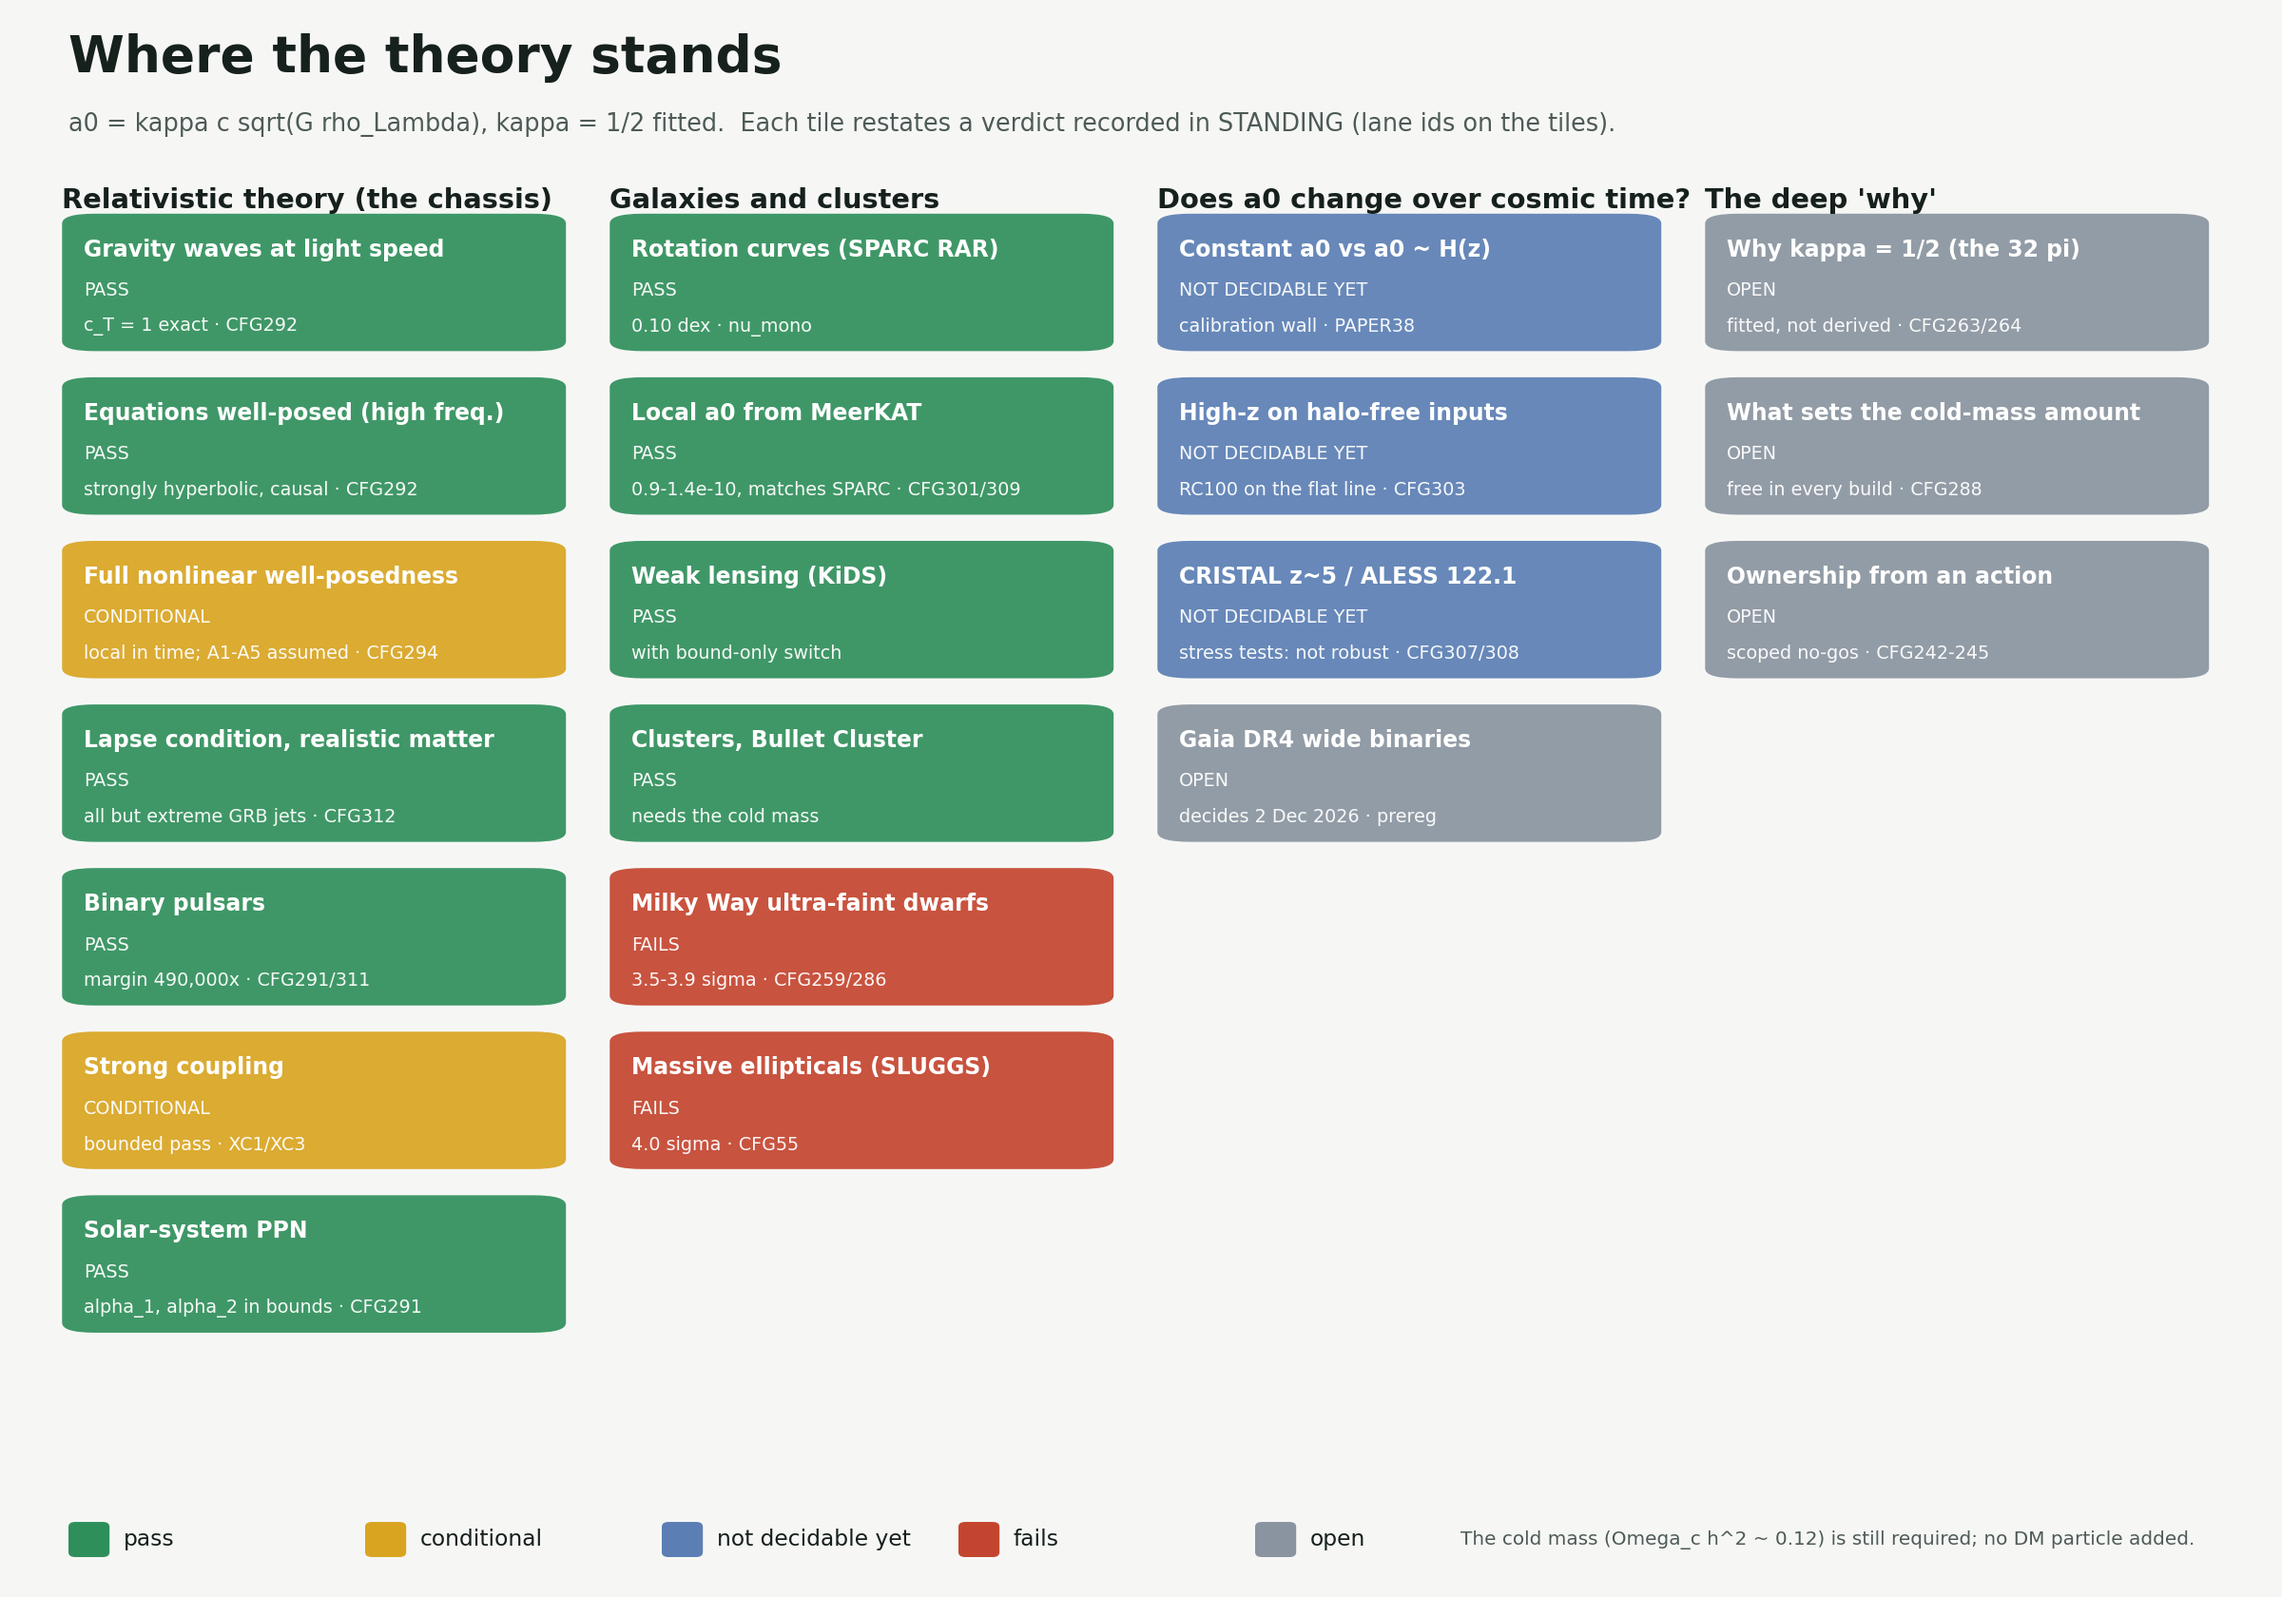
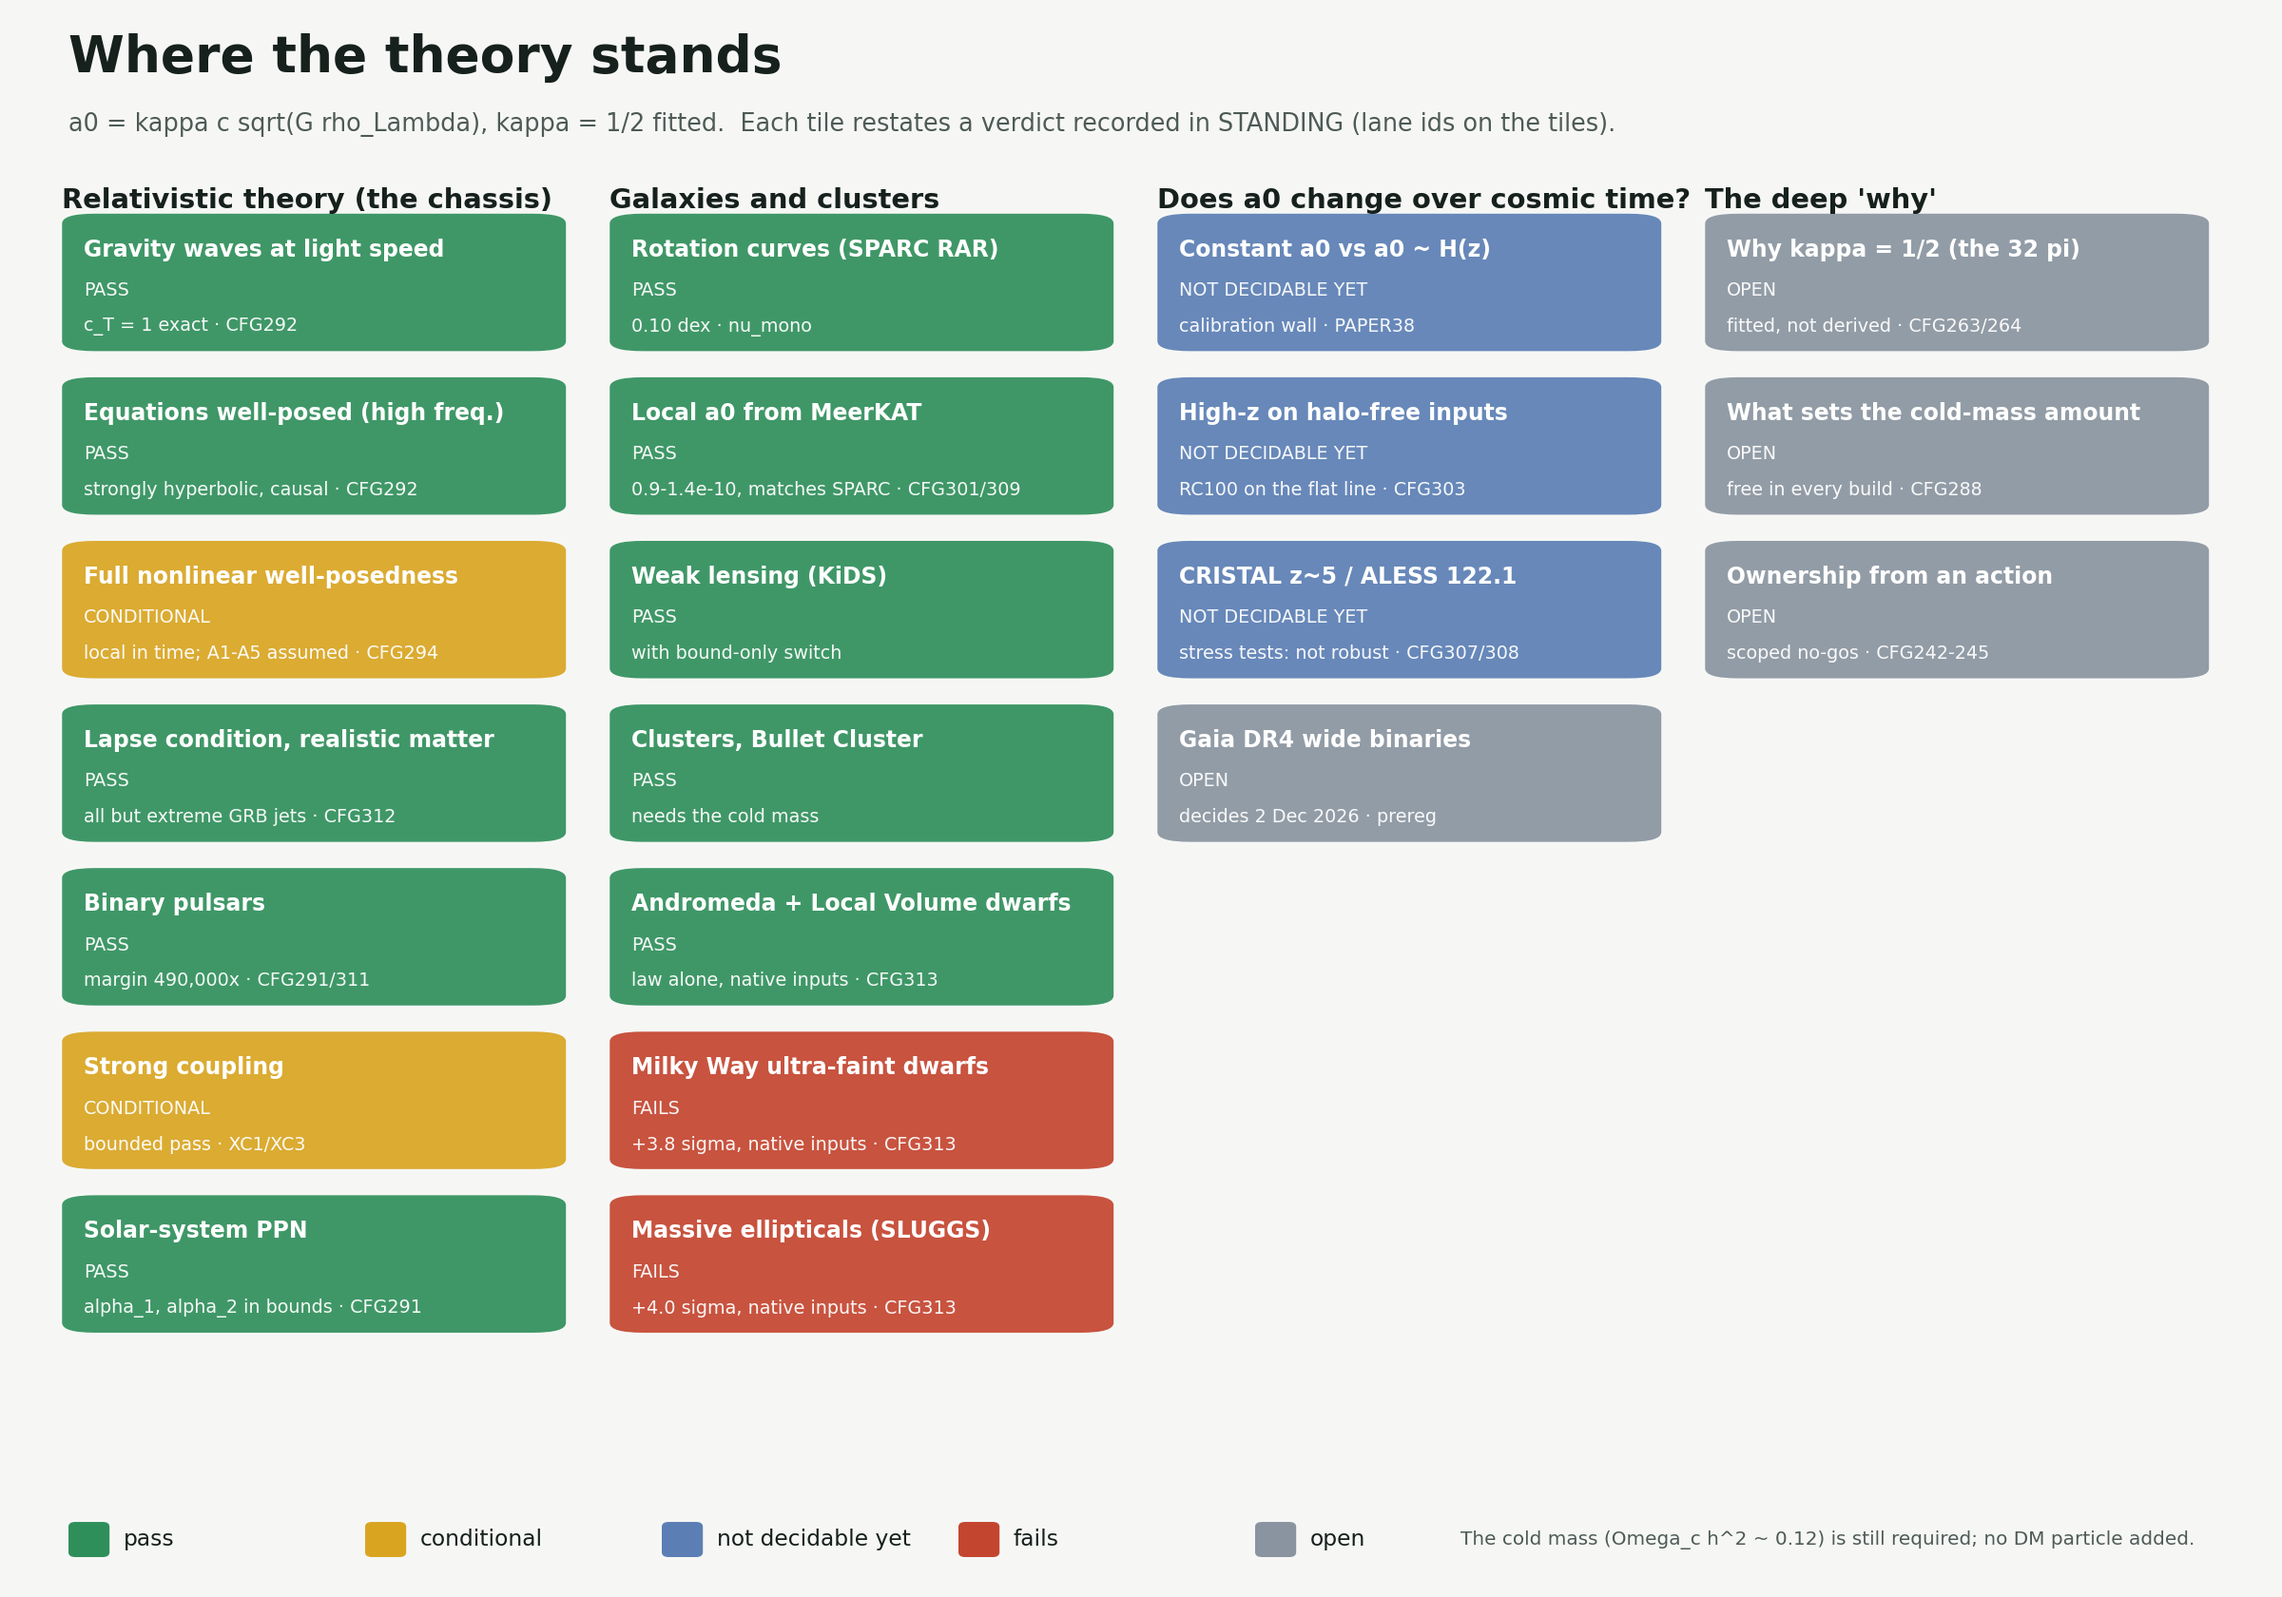
STATUS PICTURE: CFG313 (Andromeda + LV dwarfs pass on native inputs; UFDs and SLUGGS fail on native inputs)

Changed region(s): [[0.25, 0.5262, 0.5, 0.681], [0.25, 0.7119, 0.5, 0.8357]]

diff --git a/campaign_fresh_gravity/closure_map/status_picture_2026_10_03.py b/campaign_fresh_gravity/closure_map/status_picture_2026_10_03.py
@@ -26,8 +26,9 @@ groups = [
         ("Local a0 from MeerKAT", "PASS", "0.9-1.4e-10, matches SPARC · CFG301/309"),
         ("Weak lensing (KiDS)", "PASS", "with bound-only switch"),
         ("Clusters, Bullet Cluster", "PASS", "needs the cold mass"),
-        ("Milky Way ultra-faint dwarfs", "FAIL", "3.5-3.9 sigma · CFG259/286"),
-        ("Massive ellipticals (SLUGGS)", "FAIL", "4.0 sigma · CFG55"),
+        ("Andromeda + Local Volume dwarfs", "PASS", "law alone, native inputs · CFG313"),
+        ("Milky Way ultra-faint dwarfs", "FAIL", "+3.8 sigma, native inputs · CFG313"),
+        ("Massive ellipticals (SLUGGS)", "FAIL", "+4.0 sigma, native inputs · CFG313"),
     ]),
     ("Does a0 change over cosmic time?", [
         ("Constant a0 vs a0 ~ H(z)", "UNDEC", "calibration wall · PAPER38"),
